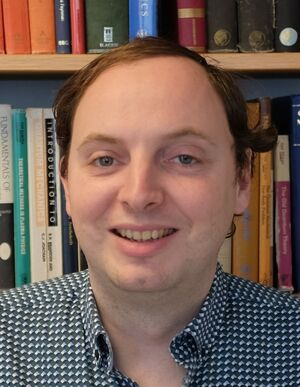
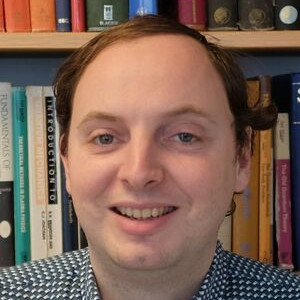
Adjust phrasings and formulations

diff --git a/src/static/styles.css b/src/static/styles.css
@@ -112,18 +112,19 @@ a {
 h1,
 h2,
 h3 {
-  margin: 0;
+  margin: 0.75ex 0 0.75ex 0;
   font-family: "Fraunces", Georgia, serif;
   line-height: 1.1;
 }
 
 h1 {
   font-size: clamp(28px, 4.5vw, 46px);
+  margin: 0 0 0 0;
 }
 
 h2 {
   font-size: clamp(24px, 3vw, 34px);
-  margin-bottom: 10px;
+  margin: 0 0 0.5ex 0;
 }
 
 h3 {

diff --git a/src/content/about.md b/src/content/about.md
@@ -1,21 +1,13 @@
 ---
-Title: AMDB - About
-Description: About the Altermagnets Database
+title: About this website and database
+base_template: base_default
 ---
 
-# About the Altermagnets Database
+The *Altermagnets Database* is an online interactive web application to navigate and search a dataset of materials computationally predicted to be altermangets, created by a team spanning [Lund University](https://www.lu.se/) (LU), [Luleå University of Technology](https://www.ltu.se/) (LTU), and [Linköping University](https://liu.se/) (LiU). The dataset was generated using the high-throughput toolkit, [*httk*](https://httk.org/).
 
-The *Altermagnets Database* is an online interactive web user interface to navigate and search a dataset of altermangetic materials created by a diverse team across Lund University, Luleå University of Technology, and Linköping University (more details below). The dataset was generated using the high-throughput toolkit, [*httk*](https://httk.org/).
-
-The interactive website is implemented using the [*httk-web* web user interface engine](https://docs2.httk.org/httk-web) and is maintained under the [Anyterial](https://www.anyterial.se/) umbrella of databases maintained by the [Unit of Materials Design and Informatics](https://liu.se/en/research/materials-design-and-informatics) at [Theoretical Physics](https://liu.se/en/research/theoretical-physics) at [Linköping University](https://www.liu.se) (LiU) in Sweden.
+This website is implemented using the [*httk-web* user interface engine](https://docs2.httk.org/httk-web) and is part of the [Anyterial](https://www.anyterial.se/) collection of databases maintained by the [Unit of Materials Design and Informatics at Theoretical Physics, Linköping University (LiU) in Sweden](https://liu.se/en/research/materials-design-and-informatics).
 
 <style>
-  .section {
-    margin: 1.5rem 0;
-  }
-  h2 {
-    margin: 1.5rem 0;
-  }
   .team-row {
     display: flex;
     align-items: flex-start; /* Align items to the top */
@@ -43,7 +35,7 @@ The interactive website is implemented using the [*httk-web* web user interface 
 </style>
 
 <div class="section leadership">
-  <h2>Contributors</h2>
+  <h3>Authors of the Altermagnets Database</h3>
   <div class="team-row">
     <div class="team-member">
       <img src="img/people/ali_sufyan.jpg" alt="Ali Sufyan">
@@ -75,19 +67,19 @@ The interactive website is implemented using the [*httk-web* web user interface 
 </small>
 </div>
 
-## <a name="contact"></a> Contact
+### <a name="contact"></a> Contact
 
 To get into contact with the people maintaining the Aletermagnets Database, contact us at: rickard.armiento&#64;liu.se
 
 For help and discussions, please use [the Altermagnets Database discussion forum](https://github.com/orgs/anyterial/discussions/categories/amdb).
 
-## <a name="news"></a> News and announcements
+### <a name="news"></a> News and announcements
 
 The AMDB uses the [Anyterial announcement section](https://github.com/orgs/anyterial/discussions/categories/announcements) of our GitHub discussion forum to announce new features, availability of new data, and events we organize related to materials design and discovery (e.g., workshops). You can subscribe to these announcements via a third-party email list service at this [**subscription link**](https://pages.anyterial.se/subscribe).
 
 The announcements are also available via this [RSS link.](https://github.com/anyterial/discussions/discussions/categories/announcements.atom)
 
-## <a name="legal"></a> Legal and privacy information
+### <a name="legal"></a> Legal and privacy information
 
 **Database licensing**
 
@@ -108,7 +100,7 @@ For licensing information for these software packages, please refer to, e.g., th
 
 **Website visitor analytics.** We occasionally review aggregated anonymized usage statistics based on webserver log data.
 
-## Acknowledgements
+### Acknowledgements
 
 The main part of our computations has been performed at the Swedish National Infrastructure for Computing (SNIC) and National Academic Infrastructure for Supercomputing in Sweden (NAISS).
 

diff --git a/src/content/how-to-cite.md b/src/content/how-to-cite.md
@@ -1,26 +1,24 @@
 ---
-title: AMDB - How to cite
+title: How to cite
 template: default
 base_template: base_default
 ---
 
-# How To Cite
-
-Please acknowledge the use of the Altermagnets Database when using the data.
+Please acknowledge the use of the Altermagnets Database when using this website and data.
 
 - "High-Throughput Quantification of Altermagnetic Band Splitting", Ali Sufyan, Brahim Marfoua, J. Andreas Larsson, E. van Loon, and R. Armiento, [arXiv:2509.14729 [cond-mat.mtrl-sci] (2025)](https://arxiv.org/abs/2509.14729).
 
-## BiBTeX-formatted reference
+### BiBTeX-formatted reference
 
 <button class="accordion" id="cite_general" onclick="toggleBlock('cite_general_window', 'cite_general')"><b>-</b> Data and database</button>
 <div id="cite_general_window" class="accordionPanel">
-<textarea style="width: 100%;height: 290px;padding: 18px;" readonly>@article{DAVIDSSON2021108091,
+<textarea style="width: 100%;height: 290px;padding: 18px;" readonly>@article{sufyan2025_high_throughput,
   title = {High-Throughput Quantification of Altermagnetic Band Splitting},
   publisher = {arXiv},
   number = {arXiv:2509.14729 [cond-mat.mtrl-sci]},
   year = {2025},
   url = {https://doi.org/10.48550/arXiv.2509.14729},
   doi = {10.48550/arXiv.2509.14729},
-  author = {Sufyan, Ali and Marfoua, Brahim and Larsson, Andreas J and can Loon, Erik and Armiento, Rickard}
+  author = {Sufyan, Ali and Marfoua, Brahim and Larsson, J. Andreas and can Loon, Erik and Armiento, Rickard}
 }</textarea>
 </div>
